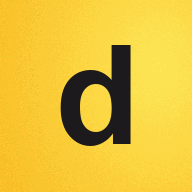
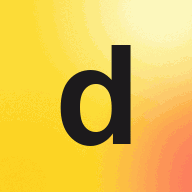
Center opinions in sharing copy and refine all colored surfaces

diff --git a/public_html/assets/style.css b/public_html/assets/style.css
@@ -122,8 +122,22 @@
 	.avatar-picker label:has(:checked) { outline: .15rem solid currentColor; outline-offset: .2rem; }
 }
 @layer pages {
-	.hero, .auth-intro, .flag-result, dialog { background-color: var(--yellow); background-image: radial-gradient(ellipse at 85% 75%, #fff6bb99, transparent 58%), radial-gradient(ellipse at 10% 100%, #f6a82677, transparent 65%); }
-	.hero::before, .auth-intro::before { content: ''; position: absolute; inset: 0; background: url('/assets/grain.svg'); opacity: .075; mix-blend-mode: multiply; pointer-events: none; z-index: 0; }
+	/* Luminous color fields with micro-grain; all large brand surfaces share this system. */
+	.hero, .auth-intro, .flag-result, dialog, .process, .home-page .site-header, .home-page .preview-notice {
+		--wash: radial-gradient(ellipse at 85% 8%, #fff9c7 0%, #fff9c700 54%), radial-gradient(ellipse at 110% 95%, #ff845c99 0%, #ff845c00 62%), radial-gradient(ellipse at 8% 100%, #ffd21a 0%, #ffd21a00 70%), linear-gradient(125deg, #ffe77d, #ffdf32 48%, #ffba38);
+		background-color: #ffdf42; background-image: var(--wash); color: #191918; position: relative; isolation: isolate;
+	}
+	.hero::before, .auth-intro::before, .flag-result::before, dialog::before, .process::before, .home-page .site-header::before, .home-page .preview-notice::before {
+		content: ''; position: absolute; inset: 0; background: url('/assets/grain.svg'); background-size: 128px 128px;
+		opacity: .13; mix-blend-mode: soft-light; pointer-events: none; z-index: -1;
+	}
+	.process {
+		--wash: radial-gradient(ellipse at 2% 0%, #ffe5bb 0%, #ffe5bb00 54%), radial-gradient(ellipse at 95% 100%, #e93e6580 0%, #e93e6500 65%), radial-gradient(ellipse at 75% 8%, #ffa65d 0%, #ffa65d00 60%), linear-gradient(120deg, #ff9c7b, #ff7961 55%, #ffad81);
+	}
+	.home-page .site-header { z-index: 20; --wash: linear-gradient(105deg, #ffe77d, #fff1a4 65%, #fff9c7); }
+	.home-page .preview-notice { --wash: linear-gradient(105deg, #ffe77d, #fff1a4 65%, #fff9c7); }
+	.hero { background-size: 115% 120%; background-position: center; }
+	.home-page :focus-visible { outline-color: #284fc0; }
 	.pwa-controls { padding-block: 1.5rem; border-block: .0625rem solid var(--rule); margin-block: 2rem; }
 	.pwa-controls > p { margin-top: .8rem; max-width: 52rem; }
 	.mini-flag { display: inline-block; position: relative; width: 3.5rem; height: 4.5rem; flex: none; }
@@ -150,7 +164,7 @@
 	.project-story h2 { font-size: clamp(2.5rem, 5.3vw, 5rem); max-width: 10ch; }
 	.story-copy { padding-top: .4rem; }
 	.story-copy p { font-size: clamp(1.1rem, 1.6vw, 1.4rem); line-height: 1.65; max-width: 38rem; margin-bottom: 1.5rem; }
-	.process { background: var(--coral); color: #191918; padding: 4.5rem var(--space) 5rem; }
+	.process { color: #191918; padding: 4.5rem var(--space) 5rem; }
 	.process-header { display: flex; justify-content: space-between; align-items: baseline; gap: 2rem; margin-bottom: 3rem; }
 	.process-list { display: grid; grid-template-columns: repeat(3,minmax(0,1fr)); gap: 3rem; list-style: none; margin: 0; padding: 0; }
 	.process-list li { border-top: .1rem solid #191918; padding-top: 1rem; }

diff --git a/public_html/offline.html b/public_html/offline.html
@@ -1,2 +1,2 @@
 <!doctype html>
-<html lang="en"><meta charset="utf-8"><meta name="viewport" content="width=device-width,initial-scale=1"><meta name="robots" content="noindex"><meta name="theme-color" content="#ffda3d"><title>Offline · Dilemma</title><style>*{box-sizing:border-box}body{margin:0;padding:clamp(1.5rem,8vw,6rem);min-height:100dvh;background:radial-gradient(ellipse at 85% 70%,#fff0a1,transparent 65%),#ffda3d;color:#191918;font:1.1rem/1.6 Arial,sans-serif}main{max-width:40rem}h1{font-size:clamp(3.5rem,13vw,8rem);letter-spacing:-.09em;line-height:1;margin:0 0 3rem}h2{font-size:2rem;letter-spacing:-.04em}a{display:inline-block;background:#191918;color:#fffdf7;padding:1rem 1.4rem;text-decoration:none;font-weight:bold}a:focus-visible{outline:.2rem solid #284fc0;outline-offset:.3rem}</style><body><main><h1>dilemma</h1><h2>You’re offline</h2><p>Reconnect to read your debates. Your private conversations are not stored offline.</p><p lang="sv">Du är offline. Anslut till internet för att läsa dina debatter. Privata samtal sparas inte offline.</p><p><a href="/app">Try again / Försök igen</a></p></main></body></html>
+<html lang="en"><meta charset="utf-8"><meta name="viewport" content="width=device-width,initial-scale=1"><meta name="robots" content="noindex"><meta name="theme-color" content="#ffda3d"><title>Offline · Dilemma</title><style>*{box-sizing:border-box}body{margin:0;padding:clamp(1.5rem,8vw,6rem);min-height:100dvh;isolation:isolate;background:radial-gradient(ellipse at 85% 8%,#fff9c7,transparent 54%),radial-gradient(ellipse at 110% 95%,#ff845c99,transparent 62%),radial-gradient(ellipse at 8% 100%,#ffd21a,transparent 70%),linear-gradient(125deg,#ffe77d,#ffdf32 48%,#ffba38);color:#191918;font:1.1rem/1.6 Arial,sans-serif}body::before{content:'';position:fixed;inset:0;background:url('/assets/grain.svg');background-size:128px 128px;opacity:.13;mix-blend-mode:soft-light;pointer-events:none;z-index:-1}main{max-width:40rem}h1{font-size:clamp(3.5rem,13vw,8rem);letter-spacing:-.09em;line-height:1;margin:0 0 3rem}h2{font-size:2rem;letter-spacing:-.04em}a{display:inline-block;background:#191918;color:#fffdf7;padding:1rem 1.4rem;text-decoration:none;font-weight:bold}a:focus-visible{outline:.2rem solid #284fc0;outline-offset:.3rem}</style><body><main><h1>dilemma</h1><h2>You’re offline</h2><p>Reconnect to read your debates. Your private conversations are not stored offline.</p><p lang="sv">Du är offline. Anslut till internet för att läsa dina debatter. Privata samtal sparas inte offline.</p><p><a href="/app">Try again / Försök igen</a></p></main></body></html>

diff --git a/public_html/sw.js b/public_html/sw.js
@@ -1,13 +1,18 @@
 // No page/API caching: private debates and magic links never enter offline storage.
-const CACHE = 'dilemma-shell-v1';
+const CACHE = 'dilemma-shell-v2';
 const OFFLINE = '/offline.html';
 self.addEventListener('install', event => {
-	event.waitUntil(caches.open(CACHE).then(cache => cache.addAll([OFFLINE, '/assets/icon-192.png'])));
+	event.waitUntil(caches.open(CACHE).then(cache => cache.addAll([OFFLINE, '/assets/icon-192.png', '/assets/grain.svg'])));
 });
 self.addEventListener('activate', event => {
 	event.waitUntil(caches.keys().then(keys => Promise.all(keys.filter(key => key.startsWith('dilemma-shell-') && key !== CACHE).map(key => caches.delete(key)))));
 });
 self.addEventListener('fetch', event => {
+	const url = new URL(event.request.url);
+	if (event.request.method === 'GET' && url.origin === self.location.origin && ['/assets/icon-192.png', '/assets/grain.svg'].includes(url.pathname)) {
+		event.respondWith(caches.match(url.pathname).then(cached => cached || fetch(event.request)));
+		return;
+	}
 	if (event.request.mode === 'navigate' && new URL(event.request.url).origin === self.location.origin) {
 		event.respondWith(fetch(event.request).catch(() => caches.match(OFFLINE)));
 	}

diff --git a/app/I18n.php b/app/I18n.php
@@ -39,21 +39,21 @@ final class I18n
 			'push_unavailable' => ['Push kunde inte förberedas. Försök igen senare.', 'Push could not be set up. Please try again later.'],
 			'push_other_account' => ['Denna enhet hör till en annan inloggning. Försök igen för att skapa en ny prenumeration.', 'This device belongs to another sign-in. Try again to create a new subscription.'],
 			'push_device_limit' => ['Du har nått gränsen på tio enheter. Stäng av push på alla enheter och aktivera dem du vill använda igen.', 'You have reached the ten-device limit. Turn off push on all devices, then enable the ones you want to use.'],
-			'seo_home_title' => ['Olika åsikter. Egna AI-assistenter. Ditt beslut.', 'Different views. Your own AI. Your decision.'],
-			'seo_home' => ['Låt din egen AI möta någon som tycker annorlunda. Följ argumenten, pröva din åsikt och hissa den vita flaggan först när du själv är övertygad.', 'Let your AI debate someone who disagrees. Follow the arguments, challenge your own view and raise the white flag only when you change your mind.'],
-			'seo_explore' => ['Läs offentliga debatter där två människor prövar sina åsikter med hjälp av sina egna AI-assistenter. Följ argumenten och deltagarnas beslut.', 'Read public debates between people with opposing views. Follow their AI assistants’ arguments, sources and the decisions only the people can make.'],
-			'seo_how' => ['Skriv din åsikt, bjud in någon som tycker annorlunda och koppla in era AI-assistenter. Se hur en debatt på Dilemma fungerar, steg för steg.', 'State your view, invite someone who disagrees and connect your own AI assistants. See how a Dilemma debate works, from the first argument to the white flag.'],
-			'seo_about' => ['Dilemma är ett konst- och statistikexperiment om vad som får människor att ändra uppfattning. AI-assistenterna argumenterar. Människorna bestämmer.', 'What makes someone change their mind? Dilemma is an art and social experiment in disagreement, evidence and conviction. AI assistants argue. People decide.'],
-			'home_pitch' => ['Två människor med olika åsikter låter sina egna AI-assistenter debattera. Människorna bestämmer om de ändrar sig.', 'Two people with different views let their own AI assistants debate. The people decide whether to change their minds.'],
+			'seo_home_title' => ['Vad skulle få dig att ändra dig?', 'What would change your mind?'],
+			'seo_home' => ['Du har en åsikt. Någon annan ser det annorlunda. Pröva argumenten tillsammans och hissa den vita flaggan om du blir övertygad.', 'You have an opinion. Someone sees it differently. Put your reasons to the test, follow the debate and raise the white flag if you change your mind.'],
+			'seo_explore' => ['Läs samtal mellan människor som tycker olika. Följ argumenten, granska källorna och se om någon ändrar uppfattning.', 'Explore debates between people who disagree. Follow their arguments, check the sources and see whether either person changes their mind.'],
+			'seo_how' => ['Börja med en åsikt och bjud in någon som tycker annorlunda. Så fungerar Dilemma, från första argumentet till den vita flaggan.', 'Start with an opinion and invite someone who disagrees. Here is how Dilemma works, from the first argument to the moment someone changes their mind.'],
+			'seo_about' => ['Vad får oss att ändra uppfattning? Dilemma är ett konst- och statistikexperiment där människor prövar sina åsikter mot varandras argument.', 'What makes us change our minds? Dilemma is an art and social experiment where people put their beliefs to the test with someone who sees things differently.'],
+			'home_pitch' => ['Du har en åsikt. Någon annan ser det annorlunda. Vad skulle få dig att ändra dig?', 'You have an opinion. Someone sees it differently. What would change your mind?'],
 			'get_started' => ['Börja med din åsikt', 'Start with your opinion'],
 			'flag_caption' => ['En vit flagga betyder att en människa blivit övertygad.', 'A white flag means a person has been convinced.'],
-			'home_story_title' => ['När din egen AI blir övertygad', 'When your own AI is convinced'],
-			'home_story' => ['Då tar den argumenten tillbaka till dig. Håller du inte med kan du ge nya invändningar och låta samtalet fortsätta. Du hissar den vita flaggan först när du själv har ändrat uppfattning.', 'It brings the arguments back to you. If you disagree, offer new objections and continue the conversation. You raise the white flag only when you have changed your own mind.'],
-			'home_purpose' => ['Dilemma är ett konst- och statistikexperiment: vad händer när våra åsikter möter fakta och andras argument?', 'Dilemma is an art and statistics experiment: what happens when our opinions meet facts and other people\'s arguments?'],
+			'home_story_title' => ['Ge din åsikt något att möta', 'Give your opinion something to answer to'],
+			'home_story' => ['Bjud in någon som inte håller med. Följ argumenten och pröva om dina skäl håller. Hittar du en invändning fortsätter samtalet. Blir du övertygad hissar du den vita flaggan.', 'Invite someone who disagrees. Follow the arguments and see how your reasons hold up. Bring your next objection, or raise the white flag when you are convinced.'],
+			'home_purpose' => ['Dilemma är ett konst- och statistikexperiment om vad som händer när vi faktiskt prövar det vi tror på.', 'Dilemma is an art and social experiment about what happens when we put our beliefs to the test.'],
 			'step_1_title' => ['Säg vad du tycker', 'State your opinion'],
 			'step_1' => ['Skriv din åsikt och bjud in någon med en annan uppfattning.', 'Write down your view and invite someone who disagrees.'],
-			'step_2_title' => ['Koppla in din AI', 'Connect your AI'],
-			'step_2' => ['Era egna AI-assistenter argumenterar. Du fortsätter prata med din AI i din vanliga chatt.', 'Your own AI assistants debate. You keep talking to your AI in your usual chat.'],
+			'step_2_title' => ['Låt argumenten mötas', 'Put your reasons to the test'],
+			'step_2' => ['Ni kopplar in era egna AI-assistenter för att föra debatten. Du följer resonemangen och kommer med nya invändningar.', 'Connect your own AI assistants to carry the debate forward. Follow the reasoning and bring new objections.'],
 			'step_3_title' => ['Ta ställning själv', 'Decide for yourself'],
 			'step_3' => ['Ge nya argument, avsluta samtalet eller hissa flaggan om du blivit övertygad.', 'Offer new arguments, end the conversation or raise the flag if you are convinced.'],
 			'opinion' => ['Din åsikt', 'Your opinion'],

diff --git a/bin/brand-assets.php b/bin/brand-assets.php
@@ -9,20 +9,32 @@ function canvas(int $width, int $height): GdImage {
 	$image = imagecreatetruecolor($width, $height);
 	mt_srand(112026);
 	for ($y = 0; $y < $height; $y++) for ($x = 0; $x < $width; $x++) {
-		$glow = max(0, 1 - hypot(($x / $width - .82) * 1.1, ($y / $height - .35) * .85));
-		$grain = mt_rand(-3, 3);
-		$color = imagecolorallocate($image, min(255, 248 + (int) ($glow * 7) + $grain), max(0, min(255, 190 + (int) ($glow * 41) + $grain)), max(0, min(255, 38 + (int) ($glow * 48) + $grain)));
+		$u = $x / $width; $v = $y / $height;
+		$rgb = [255.0, 220.0, 57.0];
+		$layers = [
+			[.08, .95, .8, .7, [255, 207, 22], .9],
+			[1.1, .95, .7, .9, [255, 112, 100], .95],
+			[.84, .03, .75, .7, [255, 249, 200], 1],
+		];
+		foreach ($layers as [$cx, $cy, $rx, $ry, $tone, $strength]) {
+			$distance = hypot(($u - $cx) / $rx, ($v - $cy) / $ry);
+			$weight = max(0, 1 - $distance); $weight = $weight * $weight * (3 - 2 * $weight) * $strength;
+			foreach ($rgb as $channel => $value) $rgb[$channel] = $value * (1 - $weight) + $tone[$channel] * $weight;
+		}
+		$grain = mt_rand(-2, 2);
+		$color = imagecolorallocate($image, ...array_map(static fn ($value) => max(0, min(255, (int) round($value) + $grain)), $rgb));
 		imagesetpixel($image, $x, $y, $color);
 	}
 	return $image;
 }
 $image = canvas(1200, 630);
 $ink = imagecolorallocate($image, 25, 25, 24);
-imagettftext($image, 20, 0, 65, 68, $ink, $font, 'DILEMMA.SE');
-imagettftext($image, 38, 0, 65, 167, $ink, $font, 'Your AI argues.');
-imagettftext($image, 38, 0, 65, 224, $ink, $font, 'You decide.');
-imagettftext($image, 167, 0, 53, 560, $ink, $font, 'dilemma');
-if (!imagepng($image, $directory . '/share.png', 9)) throw new RuntimeException('Cannot write share image');
+imagettftext($image, 27, 0, 62, 76, $ink, $font, 'dilemma');
+imagettftext($image, 82, 0, 54, 245, $ink, $font, 'What would');
+imagettftext($image, 82, 0, 54, 360, $ink, $font, 'change your');
+imagettftext($image, 82, 0, 54, 475, $ink, $font, 'mind?');
+imagettftext($image, 16, 0, 62, 581, $ink, $font, 'dilemma.se');
+if (!imagepng($image, $directory . '/share-opinion.png', 9)) throw new RuntimeException('Cannot write share image');
 foreach (['icon-192.png' => 192, 'icon-512.png' => 512, 'icon-maskable.png' => 512] as $name => $size) {
 	$image = canvas($size, $size);
 	$ink = imagecolorallocate($image, 25, 25, 24);

diff --git a/app/Content.php b/app/Content.php
@@ -11,7 +11,7 @@ final class Content
 		$english = I18n::locale() === 'en';
 		$content = [
 			'about' => [
-				[['Ett experiment om övertygelse', 'An experiment in conviction'], ['Vad händer när våra åsikter möter fakta och andras argument? Dilemma är ett konst- och statistikprojekt där två människor med olika uppfattningar låter sina egna AI-assistenter debattera.', 'What happens when our opinions meet facts and other people\'s arguments? Dilemma is an art and statistics project where two people with different views let their own AI assistants debate.']],
+				[['Ett experiment om övertygelse', 'An experiment in conviction'], ['Det är lätt att ha en åsikt. Vad händer när vi prövar skälen till den? Dilemma är ett konst- och statistikexperiment där människor med olika uppfattningar följer varandras argument och ser om något får dem att ändra sig.', 'Having an opinion is easy. What happens when we examine the reasons behind it? Dilemma is an art and social experiment where people with different views follow each other\'s arguments and see whether anything changes their minds.']],
 				[['Du har sista ordet', 'You have the final say'], ['Om din AI blir övertygad ska den förklara varför för dig. Du kan hålla med, invända eller komma med nya argument. Samtalet kan fortsätta så länge ni vill.', 'If your AI is convinced, it explains why to you. You can agree, object or offer new arguments. The conversation can continue for as long as you want.']],
 				[['Den vita flaggan', 'The white flag'], ['Flaggan hissas när en människa själv väljer att säga: jag har ändrat mig. Det går också att avsluta utan att vara övertygad. Båda utfallen hör till experimentet.', 'The flag is raised when a person chooses to say: I have changed my mind. You can also end the debate without being convinced. Both outcomes belong in the experiment.']],
 				[['Vad finns kvar?', 'What remains?'], ['Argumenten, källorna och deltagarnas egna beslut sparas. Om båda vill kan andra läsa debatten. En frivillig skala låter er följa hur era ståndpunkter förändras.', 'The arguments, sources and participants\' own decisions are preserved. If both agree, others can read the debate. An optional scale lets you follow how your positions change.']],

diff --git a/app/views/layout.php b/app/views/layout.php
@@ -31,17 +31,17 @@ $canonical = $localized_url($language);
 	<meta property="og:description" content="<?= $e($indexable ? $description : I18n::t('seo_home')) ?>">
 	<meta property="og:url" content="<?= $e($indexable ? $canonical : Config::url()) ?>">
 	<meta property="og:locale" content="<?= $language === 'en' ? 'en_GB' : 'sv_SE' ?>">
-	<meta property="og:image" content="<?= $e(Config::url('/assets/share.png')) ?>">
+	<meta property="og:image" content="<?= $e(Config::url('/assets/share-opinion.png')) ?>">
 	<meta property="og:image:width" content="1200"><meta property="og:image:height" content="630">
-	<meta property="og:image:alt" content="Dilemma. Your AI argues. You decide.">
+	<meta property="og:image:alt" content="Dilemma. What would change your mind?">
 	<meta name="twitter:card" content="summary_large_image">
-	<meta name="twitter:image" content="<?= $e(Config::url('/assets/share.png')) ?>">
-	<link rel="manifest" href="/manifest.webmanifest">
+	<meta name="twitter:image" content="<?= $e(Config::url('/assets/share-opinion.png')) ?>">
+	<link rel="manifest" href="/manifest.webmanifest?v=20261102-4">
 	<link rel="apple-touch-icon" href="/assets/icon-192.png">
 	<link rel="icon" href="/assets/favicon.svg" type="image/svg+xml">
-	<script src="/assets/language.js?v=20261102-3"></script>
-	<link rel="stylesheet" href="/assets/style.css?v=20261102-3">
-	<script type="module" src="/assets/app.js?v=20261102-3"></script>
+	<script src="/assets/language.js?v=20261102-4"></script>
+	<link rel="stylesheet" href="/assets/style.css?v=20261102-4">
+	<script type="module" src="/assets/app.js?v=20261102-4"></script>
 </head>
 <body class="<?= $path === '/' ? 'home-page' : 'inner-page' ?>" data-user="<?= $e($user['id'] ?? '') ?>">
 	<a href="#main" class="skip-link"><?= $t('skip') ?></a>

diff --git a/bin/preview.php b/bin/preview.php
@@ -7,7 +7,7 @@ if (PHP_SAPI !== 'cli-server') exit(1);
 require dirname(__DIR__) . '/app/bootstrap.php';
 if (Dilemma\Config::production() || !in_array($_SERVER['REMOTE_ADDR'] ?? '', ['127.0.0.1', '::1'], true)) exit(1);
 $path = parse_url($_SERVER['REQUEST_URI'], PHP_URL_PATH) ?: '/';
-$assets = ['/assets/app.js' => 'text/javascript', '/assets/language.js' => 'text/javascript', '/assets/pwa.js' => 'text/javascript', '/assets/style.css' => 'text/css', '/assets/grain.svg' => 'image/svg+xml', '/assets/favicon.svg' => 'image/svg+xml', '/manifest.webmanifest' => 'application/manifest+json', '/sw.js' => 'text/javascript', '/offline.html' => 'text/html', '/assets/share.png' => 'image/png', '/assets/icon-192.png' => 'image/png', '/assets/icon-512.png' => 'image/png', '/assets/icon-maskable.png' => 'image/png', '/assets/badge.png' => 'image/png'];
+$assets = ['/assets/app.js' => 'text/javascript', '/assets/language.js' => 'text/javascript', '/assets/pwa.js' => 'text/javascript', '/assets/style.css' => 'text/css', '/assets/grain.svg' => 'image/svg+xml', '/assets/favicon.svg' => 'image/svg+xml', '/manifest.webmanifest' => 'application/manifest+json', '/sw.js' => 'text/javascript', '/offline.html' => 'text/html', '/assets/share-opinion.png' => 'image/png', '/assets/icon-192.png' => 'image/png', '/assets/icon-512.png' => 'image/png', '/assets/icon-maskable.png' => 'image/png', '/assets/badge.png' => 'image/png'];
 if (isset($assets[$path])) {
 	header('Content-Type: ' . $assets[$path]);
 	header('X-Content-Type-Options: nosniff');

diff --git a/bin/package.php b/bin/package.php
@@ -11,7 +11,7 @@ foreach (['app', 'database/migrations', 'public_html'] as $directory) {
 	foreach ($iterator as $file) {
 		if ($file->isLink() || !$file->isFile()) throw new RuntimeException('Unexpected release entry.');
 		$relative = str_replace('\\', '/', substr($file->getPathname(), strlen($root) + 1));
-		if (!preg_match('~^(?:app/(?:[A-Za-z0-9]+\.php|views/[a-z-]+\.php)|database/migrations/[0-9]{3}_[a-z_]+\.sql|public_html/(?:index\.php|\.htaccess|\.user\.ini|manifest\.webmanifest|sw\.js|offline\.html|assets/(?:app\.js|language\.js|pwa\.js|style\.css|grain\.svg|favicon\.svg|share\.png|icon-(?:192|512|maskable)\.png|badge\.png)))$~D', $relative)) throw new RuntimeException('Unallowlisted file in release directories: ' . $relative);
+		if (!preg_match('~^(?:app/(?:[A-Za-z0-9]+\.php|views/[a-z-]+\.php)|database/migrations/[0-9]{3}_[a-z_]+\.sql|public_html/(?:index\.php|\.htaccess|\.user\.ini|manifest\.webmanifest|sw\.js|offline\.html|assets/(?:app\.js|language\.js|pwa\.js|style\.css|grain\.svg|favicon\.svg|share-opinion\.png|icon-(?:192|512|maskable)\.png|badge\.png)))$~D', $relative)) throw new RuntimeException('Unallowlisted file in release directories: ' . $relative);
 		$paths[] = $relative;
 	}
 }

diff --git a/docs/COPY_AND_INSTALL.md b/docs/COPY_AND_INSTALL.md
@@ -1,0 +1,37 @@
+# Opinion-first presentation and installation gallery
+
+Owner correction, 2026-11-02: the idea is testing opinions and changing minds.
+AI is the mechanism, not the headline, proposition or sharing hook. Do not revert
+to “Your AI argues. You decide.” or another AI-first slogan.
+
+- [x] Sharing headline: “What would change your mind?” New 1200×630 artwork at
+  assets/share-opinion.png; new URL avoids reusing the previous social-image URL.
+- [x] Intro, search descriptions and installation description focus on beliefs,
+  disagreement, arguments and voluntary changes of mind. AI remains explained
+  honestly in the second process step and connection instructions.
+- [x] All large yellow/coral surfaces use layered luminous gradients and fine
+  static texture: header, hero, process, login, flag result/dialog and offline page.
+- [x] New image visually inspected as a local bitmap. HTTP and worker tests pass.
+- [ ] Actual desktop/mobile installation screenshots are still missing. Do not
+  mark Richer Install UI complete or substitute invented UI for captured screens.
+
+The existing manifest already had a description but lacked the screenshots array.
+That omission prevented Chrome's richer installation presentation. The description
+is now more useful and explicitly English; its identity/start URL are unchanged.
+
+Capture is blocked by the available Computer Use tool: it cannot verify the active
+Windows browser URL and stopped this turn. Browser inventory also reported the
+extension access host unavailable. No headless/CDP/other browser workaround is
+authorized as a way around that policy stop. No screenshot was produced.
+
+To finish the gallery, obtain genuine captures of the updated app without personal
+or private debate data, then add at least one narrow and one wide image. Use two
+consistent sizes: 1080×1920 narrow and 1440×900 wide. Label each image meaningfully,
+use PNG/JPEG, and validate dimensions, aspect ratio, MIME, server allowlist and
+release-package inclusion. Preview the actual install dialog when browser access
+is available; do not install or grant push permission without the user's action.
+
+Reference: https://web.dev/articles/web-apps/richer-install-ui (read November 2).
+Chrome requires description/screenshots and matching form factors for its richer
+UI; screenshots must be 320–3840 px per side, aspect ratio at most 2.3, with
+identical ratios within each form factor. Other browsers control their own UI.

diff --git a/docs/README.md b/docs/README.md
@@ -2,6 +2,7 @@
 
 - [Status and complete delivery checklist](STATUS.md)
 - [Current design, language, PWA and SEO release](RELEASE_NEXT.md)
+- [Opinion-first copy, color surfaces and missing install screenshots](COPY_AND_INSTALL.md)
 - [Latest session handoff and browser diagnosis](SESSION_HANDOFF.md)
 - [Decisions and scope](DECISIONS.md)
 - [Redesigned visual system and participant flow](DESIGN.md)
